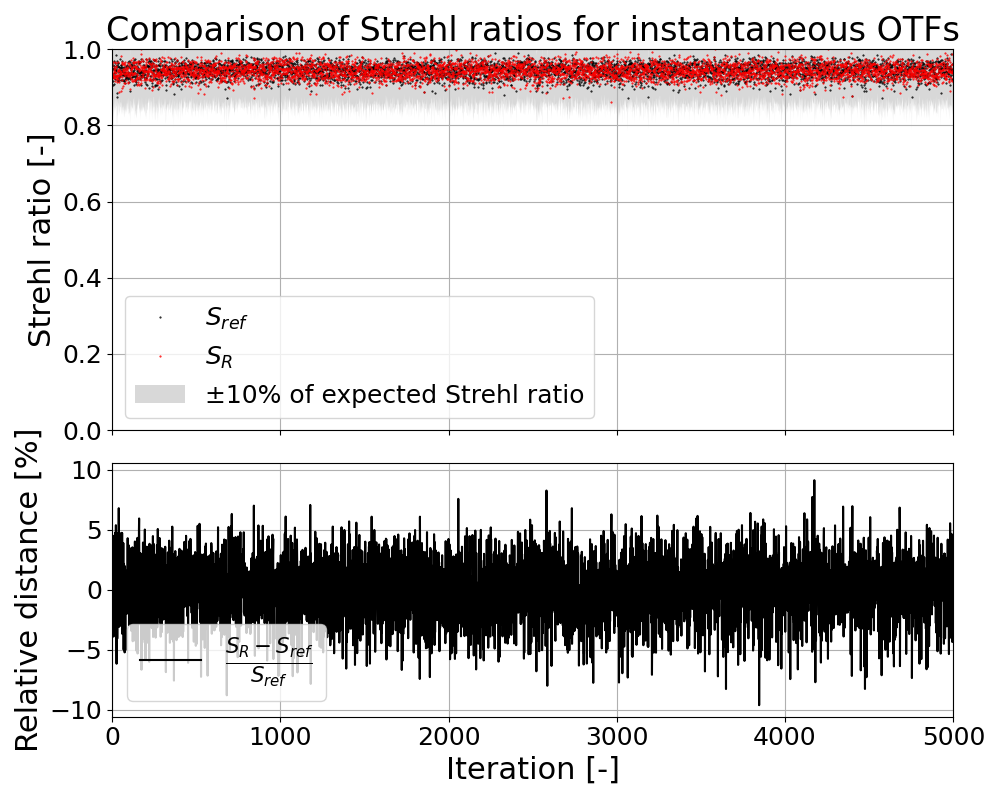
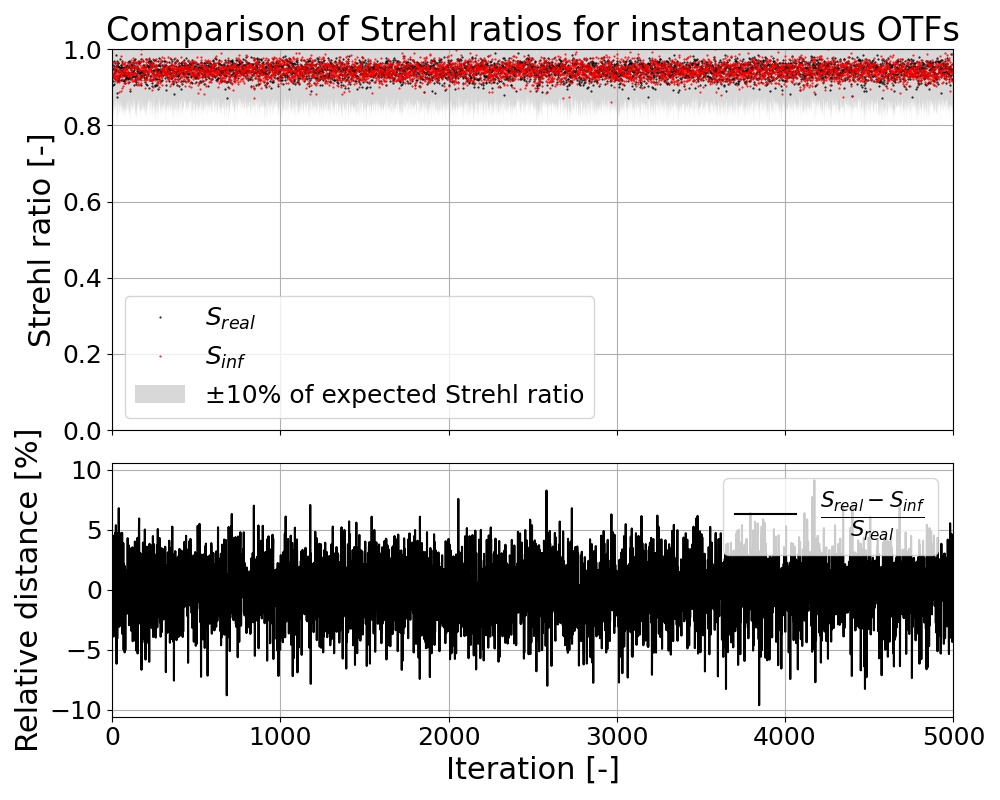
typo in EE plot

Changed region(s): [[0.713, 0.5938, 0.961, 0.7188], [0.124, 0.7812, 0.341, 0.875], [0.217, 0.4375, 0.248, 0.4688]]

diff --git a/postprocessing_otf.py b/postprocessing_otf.py
@@ -132,8 +132,8 @@ for dataset_number in range(dataset_numbers):
     fig, (ax, ax2) = plt.subplots(2, 1, figsize=(10, 8), sharex=True, gridspec_kw={'height_ratios': [3, 2]})
 
     # Top plot: Strehl ratios
-    ax.plot(truths_Strehls, '.k', label=r'$S_{ref}$', markersize=1)
-    ax.plot(inference_Strehls, '.r', label=r'$S_{R}$', markersize=1)
+    ax.plot(truths_Strehls, '.k', label=r'$S_{real}$', markersize=1)
+    ax.plot(inference_Strehls, '.r', label=r'$S_{inf}$', markersize=1)
     ax.set_ylim([0, 1])
     ax.fill_between(range(len(truths_Strehls)), lower_bounds, upper_bounds, 
                     color='gray', alpha=0.3, edgecolor='none', label='±10% of expected Strehl ratio')
@@ -145,7 +145,7 @@ for dataset_number in range(dataset_numbers):
     ax.grid()
 
     # Bottom plot: Relative distance (ax2 is now a separate subplot below)
-    ax2.plot(Strehls_rel_fidd * 100, '-k', label=r"$\frac{S_{R}-S_{ref}}{S_{ref}}$",markersize=3)
+    ax2.plot(Strehls_rel_fidd * 100, '-k', label=r"$\frac{S_{real}-S_{inf}}{S_{real}}$",markersize=3)
     ax2.set_ylabel('Relative distance [%]', fontsize=MEDIUM_SIZE, color='k')
     ax2.tick_params(axis='y', labelsize=SMALL_SIZE, colors='k')
     symetric_lim = max(abs(np.min(Strehls_rel_fidd) * 110), abs(np.max(Strehls_rel_fidd) * 110))
@@ -320,8 +320,8 @@ for dataset_number in range(dataset_numbers):
     fig, (ax, ax2) = plt.subplots(2, 1, figsize=(10, 8), sharex=True, gridspec_kw={'height_ratios': [3, 2]})
 
     # Top plot: EE
-    ax.plot(EE_measured, '.k', label=r'$EE_{R}$', markersize=1)
-    ax.plot(EE_inferred, '.r', label=r'$EE_{ref}$', markersize=1)
+    ax.plot(EE_measured, '.k', label=r'$EE_{real}$', markersize=1)
+    ax.plot(EE_inferred, '.r', label=r'$EE_{inf}$', markersize=1)
     ax.set_ylim([0, 1])
     ax.fill_between(range(len(EE_measured)), lower_bounds, upper_bounds, 
                     color='gray', alpha=0.3, edgecolor='none', label='±10% of expected EE')

diff --git a/postprocessing.py b/postprocessing.py
@@ -187,7 +187,7 @@ for dataset_number in range(dataset_numbers):
     ax.grid()
 
     # Bottom plot: Relative distance (ax2 is now a separate subplot below)
-    ax2.plot(Strehls_rel_fidd * 100, '-k', label=r"$\frac{S_{R}-S_{ref}}{S_{ref}}$",markersize=3)
+    ax2.plot(Strehls_rel_fidd * 100, '-k', label=r"$\frac{S_{real}-S_{inf}}{S_{real}}$",markersize=3)
     ax2.set_ylabel('Relative distance [%]', fontsize=MEDIUM_SIZE, color='k')
     ax2.tick_params(axis='y', labelsize=SMALL_SIZE, colors='k')
     symetric_lim = max(abs(np.min(Strehls_rel_fidd) * 110), abs(np.max(Strehls_rel_fidd) * 110))
